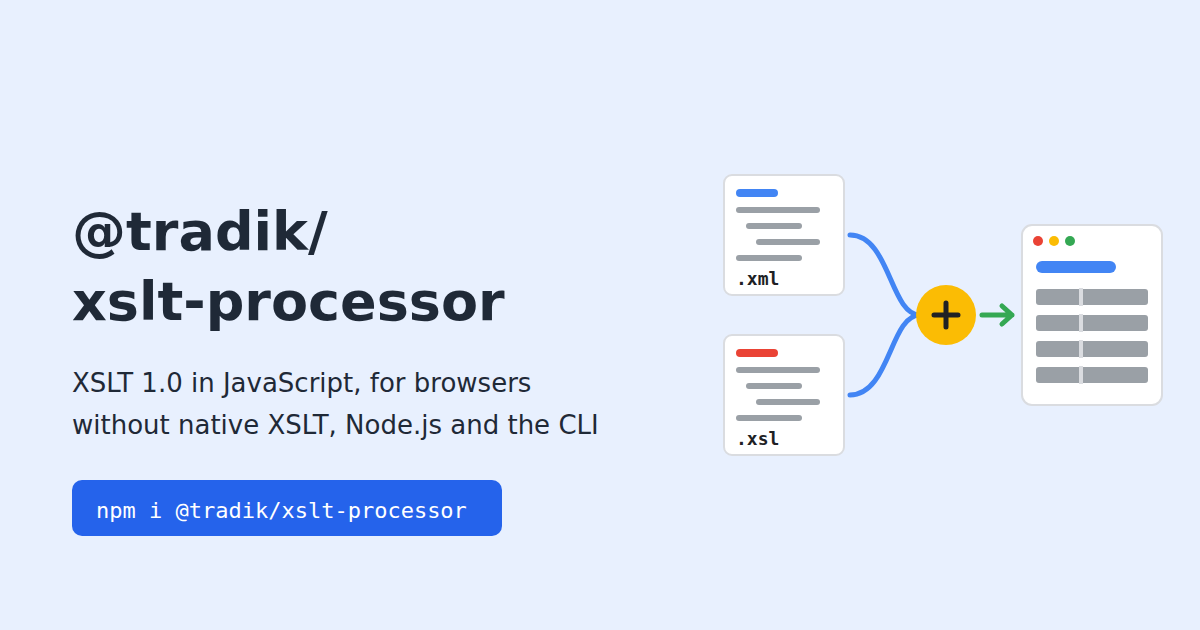
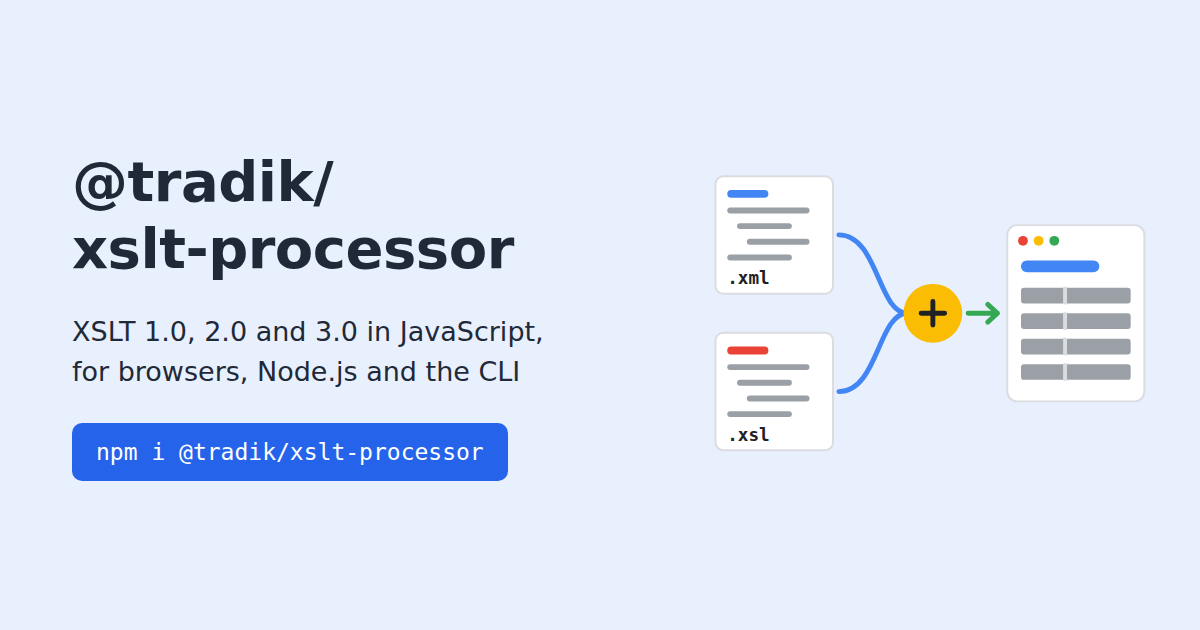
fix(site): name XSLT 2.0 and 3.0 on the home page, playground and social card (#20)

Changed region(s): [[0.0617, 0.573, 0.4933, 0.8746], [0.5858, 0.2714, 0.9558, 0.7238], [0.0617, 0.2413, 0.4625, 0.5429]]

diff --git a/site/templates/xslt-site/layouts/playground.html b/site/templates/xslt-site/layouts/playground.html
@@ -21,7 +21,7 @@
         <input type="radio" name="pg-mode" id="pg-mode-xslt" value="xslt" checked>
         <label for="pg-mode-xslt">XSLT 1.0 <span class="pg-mode__note">transform</span></label>
         <input type="radio" name="pg-mode" id="pg-mode-xslt3" value="xslt3">
-        <label for="pg-mode-xslt3">XSLT 3.0 <span class="pg-mode__note">transform</span></label>
+        <label for="pg-mode-xslt3">XSLT 2.0 / 3.0 <span class="pg-mode__note">transform</span></label>
         <input type="radio" name="pg-mode" id="pg-mode-xpath" value="xpath">
         <label for="pg-mode-xpath">XPath 3.1 <span class="pg-mode__note">evaluate</span></label>
       </div>
@@ -39,7 +39,7 @@
           <label for="pg-live">Run while typing</label>
         </div>
       </div>
-      <p class="pg-compare hint" data-mode="xslt xslt3">Compare the engines: <a id="pg-compare" href="?mode=xslt3">Run this stylesheet with XSLT 3.0</a>, keeping the XML, the stylesheet and the parameters.</p>
+      <p class="pg-compare hint" data-mode="xslt xslt3">Compare the engines: <a id="pg-compare" href="?mode=xslt3">Run this stylesheet with XSLT 2.0 / 3.0</a>, keeping the XML, the stylesheet and the parameters.</p>
 
       <div class="pg__editors">
         <div class="field">

diff --git a/site/templates/xslt-site/layouts/landing.html b/site/templates/xslt-site/layouts/landing.html
@@ -7,7 +7,7 @@
   <section class="hero" aria-labelledby="hero-title">
     <div class="wrap hero__inner">
       <div class="hero__text">
-        <p class="eyebrow">XSLT 1.0 · XPath 1.0 · EXSLT</p>
+        <p class="eyebrow">XSLT 1.0 · 2.0 · 3.0 · XPath 3.1 · EXSLT</p>
         <h1 id="hero-title">Keep your XSLT running when browsers drop it</h1>
         <p class="lead">{{ $l.intro }}</p>
         <div class="hero__actions">
@@ -15,6 +15,7 @@
           <a class="button" href="{{ $b }}/playground/">Try it in the playground</a>
         </div>
         <p class="install-line"><code>npm install @tradik/xslt-processor</code></p>
+        <p class="install-line install-line--extra">XSLT 2.0 and 3.0: add <code>@tradik/xslt3</code> and pass <code>xsltVersion: "auto"</code> (<a href="{{ $b }}/docs/xslt3/">how</a>)</p>
       </div>
       <img class="hero__art" src="{{ $b }}/images/hero.svg" width="480" height="360" alt="An XML document and an XSLT stylesheet flow into the processor, which produces an HTML page">
     </div>

diff --git a/site/templates/xslt-site/js/playground-xslt3.js b/site/templates/xslt-site/js/playground-xslt3.js
@@ -101,7 +101,7 @@ export function createXslt3Mode({
     statusLine.textContent =
       result.output === null
         ? "The transformation failed. See the messages below."
-        : `Output method: ${result.method} (${source}). ${plural(result.output.length, "character")}${extra} in ${result.ms.toFixed(1)} ms with @tradik/xslt3 ${lib.VERSION} (in development).`;
+        : `Output method: ${result.method} (${source}). ${plural(result.output.length, "character")}${extra} in ${result.ms.toFixed(1)} ms with @tradik/xslt3 ${lib.VERSION}.`;
     showMessages(result.messages);
     outputCode.textContent = result.output ?? "";
     preview.srcdoc =

diff --git a/site/templates/xslt-site/js/playground-xpath.js b/site/templates/xslt-site/js/playground-xpath.js
@@ -86,7 +86,7 @@ export function createXPathMode({
     const count = result.items.length;
     const items =
       count === 0 ? "Empty sequence" : `${count} item${count === 1 ? "" : "s"}`;
-    statusLine.textContent = `${items} in ${result.ms.toFixed(1)} ms with @tradik/xslt3 ${lib.VERSION} (in development).`;
+    statusLine.textContent = `${items} in ${result.ms.toFixed(1)} ms with @tradik/xslt3 ${lib.VERSION}.`;
     showMessages([]);
   }
 

diff --git a/site/templates/xslt-site/css/landing.css b/site/templates/xslt-site/css/landing.css
@@ -72,6 +72,12 @@
   margin-block: var(--space-4);
 }
 
+.install-line--extra {
+  margin-top: var(--space-2);
+  color: var(--color-muted);
+  font-size: 0.95rem;
+}
+
 .install-line code {
   display: inline-block;
   padding: var(--space-2) var(--space-3);

diff --git a/site/templates/xslt-site/js/playground.js b/site/templates/xslt-site/js/playground.js
@@ -89,7 +89,7 @@ const modes = {
       library,
       isActive: () => mode === MODES.xslt3,
     }),
-    name: "XSLT 3.0",
+    name: "XSLT 2.0 / 3.0",
     runLabel: "Transform",
     outputTitle: "serialize() output",
   },

diff --git a/site/pages/playground.md b/site/pages/playground.md
@@ -1,6 +1,6 @@
 ---
 title: "XSLT playground"
-description: "Run XSLT 1.0 and 3.0 stylesheets and XPath 3.1 expressions on your own XML in the browser: parameters, live preview, result documents, typed items."
+description: "Run XSLT 1.0, 2.0 and 3.0 stylesheets and XPath 3.1 expressions on your own XML in the browser: parameters, live preview, result documents, typed items."
 slug: playground
 link: /playground/
 status: publish
@@ -14,9 +14,10 @@ page keeps working without a network connection once it has loaded.
 `@tradik/xslt-processor`, not with the browser's native `XSLTProcessor`, so
 the result is the one your users get after Chrome removes native XSLT.
 
-**XSLT 3.0** runs the same editors with `@tradik/xslt3`, the XSLT 3.0 engine
-that is in development in this repository ([design and status](../docs/xslt3/)).
-It takes XSLT 3.0 and 2.0 stylesheets, and 1.0 ones in backwards-compatible
+**XSLT 2.0 / 3.0** runs the same editors with `@tradik/xslt3`, the XSLT 3.0
+engine ([options and conformance](../docs/xslt3/)). It is one mode for both
+versions: XSLT 3.0 is a superset of 2.0, so a stylesheet with
+`version="2.0"` runs here as written, and 1.0 ones run in backwards-compatible
 mode. The examples cover `xsl:for-each-group`, `xsl:analyze-string`, typed
 `xsl:function`s, text value templates, `xsl:iterate`, maps and JSON,
 `xsl:try`, `xsl:merge`, accumulators and `xsl:result-document`, whose extra

diff --git a/README.md b/README.md
@@ -51,7 +51,7 @@ The documentation is also published as a website with an interactive playground:
 | [Conformance](docs/CONFORMANCE.md) | W3C compliance tables, supported elements and functions, known deviations, test coverage |
 | [Security Limits](docs/SECURITY-LIMITS.md) | XPath and XSLT limits, prototype pollution protection, input validation |
 | [Browser Compatibility](docs/BROWSER-SUPPORT.md) | Minimum browser versions, native XSLT removal timeline, feature detection |
-| [XSLT 2.0 and 3.0](docs/XSLT3.md) | In development: one engine for XSLT 3.0 and 2.0 in a separate package, `@tradik/xslt3`; design, scope and milestones |
+| [XSLT 2.0 and 3.0](docs/XSLT3.md) | `@tradik/xslt3`: one engine for XSLT 3.0 and 2.0 in a separate package; options, conformance and design |
 | [Benchmarks](docs/BENCHMARKS.md) | 1.1.3 vs 1.2.0: speed-up, time and peak memory per scenario, with charts, tables and `npm run bench` to reproduce; XPath 1.0 of this package vs XPath 3.1 of @tradik/xslt3 (`npm run bench -- --suite xpath`); the XSLT 1.0 engine vs @tradik/xslt3 on the same stylesheets, idiomatic 2.0/3.0 rewrites and 3.0-only scenarios (`npm run bench -- --suite xslt`) |
 | [Development](docs/DEVELOPMENT.md) | Setup, tests, Docker, Makefile, publishing to npm |
 | [Style Guide](docs/STYLE-GUIDE.md) | Project colors with WCAG 2.2 contrast ratios |

diff --git a/docs/README.md b/docs/README.md
@@ -14,7 +14,7 @@ implements the W3C `XSLTProcessor` API for browsers and Node.js and ships an
 | [Conformance](CONFORMANCE.md) | W3C compliance tables, supported elements and functions, known deviations, test coverage |
 | [Security Limits](SECURITY-LIMITS.md) | XPath and XSLT limits, prototype pollution protection, input validation |
 | [Browser Compatibility](BROWSER-SUPPORT.md) | Minimum browser versions, native XSLT removal timeline, feature detection |
-| [XSLT 2.0 and 3.0](XSLT3.md) | In development: one engine for XSLT 3.0 and 2.0 in a separate package, `@tradik/xslt3`; design, scope and milestones |
+| [XSLT 2.0 and 3.0](XSLT3.md) | `@tradik/xslt3`: one engine for XSLT 3.0 and 2.0 in a separate package; options, conformance and design |
 | [Benchmarks](BENCHMARKS.md) | 1.1.3 vs 1.2.0: speed-up, time and peak memory per scenario, with charts, tables and `npm run bench` to reproduce; XPath 1.0 of this package vs XPath 3.1 of @tradik/xslt3 (`npm run bench -- --suite xpath`); the XSLT 1.0 engine vs @tradik/xslt3 on the same stylesheets, idiomatic 2.0/3.0 rewrites and 3.0-only scenarios (`npm run bench -- --suite xslt`) |
 | [Development](DEVELOPMENT.md) | Setup, tests, Docker, Makefile, publishing to npm |
 | [Style Guide](STYLE-GUIDE.md) | Project colors with WCAG 2.2 contrast ratios |

diff --git a/CHANGELOG.md b/CHANGELOG.md
@@ -11,6 +11,10 @@ and this project adheres to [Semantic Versioning](https://semver.org/spec/v2.0.0
 
 - `make publish` and `make publish-xslt3` ask for the npm one-time password after the build and the tests, just before publishing: a code is valid for about 30 seconds and the checks take minutes, so `make publish OTP=123456` expired before it was used. `OTP=…` still works for scripted runs.
 
+### Documentation
+
+- **Website wording for XSLT 2.0 and 3.0**: the home page said "XSLT 1.0 · XPath 1.0 · EXSLT" and the title "XSLT 1.0 in JavaScript"; they now name XSLT 1.0, 2.0 and 3.0 and XPath 3.1, with an install hint for `@tradik/xslt3` under the npm command. The playground mode is called "XSLT 2.0 / 3.0", because the 3.0 engine runs `version="2.0"` stylesheets as written (the page says so). "In development" is gone from the site, README.md, docs/README.md and docs/DEVELOPMENT.md, and the social card (og-card.png) is regenerated with the new text.
+
 ## [1.3.0] - 2026-10-02
 
 The first release of **`@tradik/xslt3` 1.0.0**, a separate XSLT 3.0 and XPath 3.1 engine (99.9% of the W3C qt3tests, 98.2% of xslt30-test), and an opt-in route to it from `XSLTProcessor` (`xsltVersion: "auto"`). The XSLT 1.0 behaviour of `@tradik/xslt-processor` is unchanged by default.

diff --git a/docs/DEVELOPMENT.md b/docs/DEVELOPMENT.md
@@ -50,7 +50,7 @@ further packages, built and tested on their own:
 | Directory | Package | Tests |
 |---|---|---|
 | `.` | `@tradik/xslt-processor` | `npm test` |
-| `packages/xslt3` | `@tradik/xslt3` (XSLT 3.0 / XPath 3.1, in development, [design](XSLT3.md)) | `npm run test:xslt3` |
+| `packages/xslt3` | `@tradik/xslt3` (XSLT 3.0 / XPath 3.1, [design](XSLT3.md)) | `npm run test:xslt3` |
 
 `npm ci` at the root installs every package. A workspace never becomes a
 dependency of `@tradik/xslt-processor`: its tarball holds only `dist/`,
